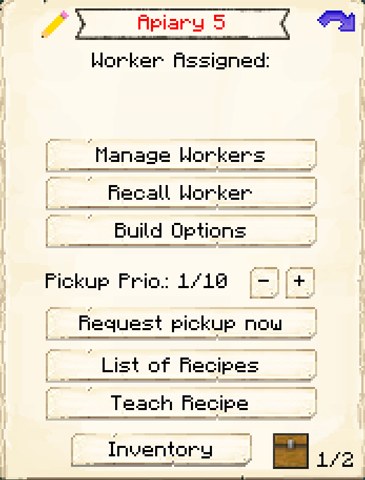
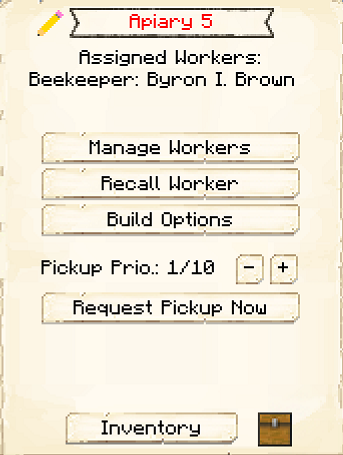
Hut updates (#751)
* Updated Builder's Hut GUI info

Updated the Builders's Hut to show the 6 new tabs, with image updates

Also made changes to gui.yml to
remove mention of worker level.
Renamed Delivery Priority to Pickup Priority.
Removed List of Recipes and Teach Recipe as it is now in a tab.

* Minor proofreading

* Update builder.md

* Builder & shepherd hut updates

html fixes for builder's hut
Updated shepherd's hut with new images and content.

* Apiary Update

Update of Apiary page

diff --git a/source/buildings/builder.md b/source/buildings/builder.md
@@ -33,7 +33,7 @@ Once the Builder's Hut is built you can now build anything you want, like worker
 
 <div class="row">
   <div class="col">
-    
+
   When accessing the Builder’s Hut block by right-clicking on it, you will see a GUI with different options.  You start on the main tab <img src="../../assets/images/gui/guitab1.png" class="img-fluid mx-auto" alt="Main Tab">:
 
   <br>
@@ -50,73 +50,58 @@ Once the Builder's Hut is built you can now build anything you want, like worker
       </ul>
     </div>
   </div>
-  <br>
-      <p>The second tab of the GUI is Minimum Stock <img src="../../assets/images/gui/guitab2.png" class="img-fluid mx-auto" alt="Minimum Stock">: </p>
+    
   <br>
   <div class="row">
     <div class="col-sm-12 col-md">
       <img src="../../assets/images/gui/buildergui2.png" class="img-fluid mx-auto" alt="Builder GUI 2">
     </div>
     <div class="col-sm-12 col-md">
+    <br>
+    <p><img src="../../assets/images/gui/guitab2.png" class="img-fluid mx-auto" alt="Minimum Stock">  The second tab of the GUI is <strong>Minimum Stock</strong>. </p>
     <ul>
         <li><strong> Add: </strong> Use this button to tell the Builder's Hut to keep a minimum stock on hand. Set items will be displayed above the button.</li>
     </ul>
     </div>
   </div>
-  <br>
-   <div class="col-sm-12 col-md"><br>
-      <p>The third tab of the GUI is Settings <img src="../../assets/images/gui/guitab3.png" class="img-fluid mx-auto" alt="Settings">: </p>
-    </div>
+
   <br>
   <div class="row">
     <div class="col-sm-12 col-md">
       <img src="../../assets/images/gui/buildergui3.png" class="img-fluid mx-auto" alt="Builder GUI 3">
     </div>
-  <br>
-  <div class="col-sm-12 col-md">
-    <ul>
-      <li><strong>Builder Mode:</strong> Here you can set your Builder to Manual or Automatic mode (Automatic by default). In Automatic, the builder chooses which build order they'll complete next themselves (based on the order of the build requests in the <a href="../../source/buildings/townhall">Town Hall</a> GUI's <a href="#workorders">work orders</a> tab). In Manual, you choose their next build order yourself by clicking Select next to the build order's name.</li>
-      <li><strong>Fill Block:</strong> Here you can select what block the builder uses to fill in holes/gaps in the schematic.  The default is the dirt block.</li>
-    </ul>
-  </div>
+    <div class="col-sm-12 col-md">
+      <p><img src="../../assets/images/gui/guitab3.png" class="img-fluid mx-auto" alt="Settings"> The third tab of the GUI is <strong>Settings</strong>.</p>
+      <ul>
+        <li><strong>Builder Mode:</strong> Here you can set your Builder to Manual or Automatic mode (Automatic by default). In Automatic, the builder chooses which build order they'll complete next themselves (based on the order of the build requests in the <a href="../../source/buildings/townhall">Town Hall</a> GUI's <a href="#workorders">work orders</a> tab). In Manual, you choose their next build order yourself by clicking Select next to the build order's name.</li>
+        <li><strong>Fill Block:</strong> Here you can select what block the builder uses to fill in holes/gaps in the schematic.  The default is the dirt block.</li>
+      </ul>
+    </div>
   </div>
 
-  <br>
-   <div class="col-sm-12 col-md"><br>
-      <p>The fourth tab of the GUI is Crafting Recipes <img src="../../assets/images/gui/guitab4.png" class="img-fluid mx-auto" alt="Crafting Recipes">.  
-      <br>Here you can see all the recipes you have taught this hut and can remove them: </p>
-    </div>
   <br>
   <div class="row">
     <div class="col-sm-12 col-md">
       <img src="../../assets/images/gui/buildergui4.png" class="img-fluid mx-auto" alt="Builder GUI 4">
     </div>
-  <br>
-  <div class="col-sm-12 col-md">
-    <ul>
-      <li><strong>Teach Recipe:</strong> When clicking teach recipe, it opens a crafting grid which allows you to teach this hut recipes (not the worker).</li>
-    </ul>
+    <div class="col-sm-12 col-md">
+      <p><img src="../../assets/images/gui/guitab4.png" class="img-fluid mx-auto" alt="Crafting Recipes"> The fourth tab of the GUI is <strong>Crafting Recipes</strong>.  Here you can see all the recipes you have taught this hut and can remove them.</p>
+      <ul>
+        <li><strong>Teach Recipe:</strong> When clicking teach recipe, it opens a crafting grid which allows you to teach this hut recipes (not the worker).</li>
+      </ul>
+    </div>
   </div>
-  <br>
-   <div class="col-sm-12 col-md"><br>
-      <p>The fifth tab of the GUI is Work Orders <img src="../../assets/images/gui/guitab5.png" class="img-fluid mx-auto" alt="Work Orders">.  
-      <br>This page shows you what buildings have been assigned to this builder, along with the distance away from the builder's hut.  You can cancel the work order here.
-      </p>
-      </div>
+
   <br>
   <div class="row">
     <div class="col-sm-12 col-md">
       <img src="../../assets/images/gui/buildergui5.png" class="img-fluid mx-auto" alt="Builder GUI 5">
     </div>
-  <br>
-  <div class="col-sm-12 col-md">
-  </div>
-  </div>
-  <br>
-   <div class="col-sm-12 col-md"><br>
-      <p>The sixth tab of the GUI is Required Resources <img src="../../assets/images/gui/guitab6.png" class="img-fluid mx-auto" alt="Required Resources">. 
-      <br>These are the resources that the Builder will need for the build order they are currently working on. </p>
+    <div class="col-sm-12 col-md">
+      <p><img src="../../assets/images/gui/guitab5.png" class="img-fluid mx-auto" alt="Work Orders"> The fifth tab of the GUI is <strong>Work Orders</strong>.  This page shows you what buildings have been assigned to this builder, along with the distance away from the builder's hut.  You can cancel the work order here. </p>
     </div>
+  </div>
+
   <br>
   <div class="row">
     <div class="col-sm-12 col-md">
@@ -124,6 +109,7 @@ Once the Builder's Hut is built you can now build anything you want, like worker
     </div>
   <br>
   <div class="col-sm-12 col-md">
+    <p><img src="../../assets/images/gui/guitab6.png" class="img-fluid mx-auto" alt="Required Resources"> The sixth tab of the GUI is <strong>Required Resources</strong>. These are the resources that the Builder will need for the build order they are currently working on. </p>
     <ul>
       <li><strong>Current project</strong> The top line tells you which building is being worked on and its level.</li>
       <li><strong>Step</strong> What step of the project the builder is on.</li>
@@ -131,7 +117,7 @@ Once the Builder's Hut is built you can now build anything you want, like worker
       <li><strong>Item</strong> Each needed item is displayed, along with how many of that item is in inventory, and how many are needed.  These amounts will change as they place blocks and will show only what blocks the Builder still needs to place. The block in black are in their inventory.  The blocks in red are the ones neither you nor the Builder has in their inventory.  The blocks in green are ones you have in inventory but the builder needs.  Clicking the up arrow next to the item will automatically remove that item from your inventory and place it into the builder's.</li>
     </ul>
   </div>
-   
+
   <br>
   </div>
 </div>

diff --git a/source/buildings/apiary.md b/source/buildings/apiary.md
@@ -33,12 +33,13 @@ The level of the Apiary determines the max number of hives the Beekeeper can tak
 
 **Note:** If the Beekeeper is asking for hives but there are some nearby, make sure you've set the hives for them to take care of with the hive tool. This tool is accessed from the second page of the Apiary GUI (see below).
 
-<div class="row">
-  
-<div class="col">
 ## Apiary GUI
 
-When accessing the Apiary block by right-clicking on it, you will see a GUI with different options:
+<div class="row">
+ 
+<div class="col">
+
+When accessing the Apiary Hut block by right-clicking on it, you will see a GUI with different options:
 
 <br>
 <div class="row">
@@ -59,14 +60,13 @@ When accessing the Apiary block by right-clicking on it, you will see a GUI with
 <br>
 <div class="row">
   <div class="col-sm-12 col-md">
-    <img src="../../assets/images/gui/apiarygui2.png" class="img-fluid mx-auto" alt="Apiary GUI 2">
+    <img src="../../assets/images/gui/minstockgui.png" class="img-fluid mx-auto" alt="Apiary GUI 2">
   </div>
   <div class="col-sm-12 col-md">
     <br>
-    <p>This is page two of the GUI. It has two buttons:</p>
+    <p><img src="../../assets/images/gui/guitab2.png" class="img-fluid mx-auto" alt="Minimum Stock"> The second tab of the GUI is <strong>Minimum Stock</strong>.    It has one button:</p>
     <ul>
-        <li><b>Honeycombs or Honey:</b> Here you choose if the Beekeeper will collect honeycombs or honey bottles. They will collect whatever shows on the GUI.</li>
-      <li><b>Get hive tool:</b> Click this button to get the hive tool, which is how you select which hives the Beekeeper will take care of. To select a hive, right-click on it with the hive tool. Right-click on a hive again to remove it.</li>
+        <li><strong> Minimum Stock: </strong> Use this button to tell the Apiary to keep a minimum stock on hand. Set items will be displayed above the button.</li>
     </ul>
   </div>
 </div>
@@ -74,13 +74,39 @@ When accessing the Apiary block by right-clicking on it, you will see a GUI with
 <br>
 <div class="row">
   <div class="col-sm-12 col-md">
-    <img src="../../assets/images/gui/minstockgui.png" class="img-fluid mx-auto" alt="Apiary GUI 3">
+    <img src="../../assets/images/gui/apiarygui3.png" class="img-fluid mx-auto" alt="Apiary GUI 3">
   </div>
   <div class="col-sm-12 col-md">
     <br>
-    <p>This is page three of the GUI. It has one button:</p>
+    <p><img src="../../assets/images/gui/guitab3.png" class="img-fluid mx-auto" alt="Settings"> The third tab of the GUI is <strong>Settings</strong>.  It has two buttons:</p>
     <ul>
-        <li><strong> Minimum Stock: </strong> Use this button to tell the Apiary to keep a minimum stock on hand. Set items will be displayed above the button.</li>
+      <li><b>Breeding:</b> On by default. Here you can choose if the Beekeeper will breed bees.</li>
+      <li><b>Honeycombs or Honey:</b> Here you choose if the Beekeeper will collect honeycombs, honey bottles, or both. They will collect whatever shows on the GUI.</li>
+    </ul>
+  </div>
+</div>
+
+<br>
+<div class="row">
+  <div class="col-sm-12 col-md">
+    <img src="../../assets/images/gui/apiarygui4.png" class="img-fluid mx-auto" alt="Apiary GUI 4">
+  </div>
+  <div class="col-sm-12 col-md">
+    <br>
+    <p><img src="../../assets/images/gui/apiarygui4tab.png" class="img-fluid mx-auto" alt="Flowers"> The fourth tab of the GUI is <strong>Flowers</strong>.  Here you designate what flowers you want the Beekeeper to request and use during breeding.  By default, all flowers are turned off.</p>
+  </div>
+</div>
+
+<br>
+<div class="row">
+  <div class="col-sm-12 col-md">
+    <img src="../../assets/images/gui/apiarygui5.png" class="img-fluid mx-auto" alt="Apiary GUI 5">
+  </div>
+  <div class="col-sm-12 col-md">
+    <br>
+    <p><img src="../../assets/images/gui/apiarygui5tab.png" class="img-fluid mx-auto" alt="Tool"> The fifth tab of the GUI is the <strong>Hive Tool</strong>.</p>
+    <ul>
+      <li><b>Obtain Tool:</b> Click this button to get the hive tool, which is how you select which hives the Beekeeper will take care of. To select a hive, right-click on it with the hive tool. Right-click on a hive again to remove it.</li>
     </ul>
   </div>
 </div>

diff --git a/source/buildings/shepherd.md b/source/buildings/shepherd.md
@@ -34,7 +34,7 @@ The Shepherd's Hut is where the Shepherd will breed and butcher sheep for food a
 
 ## Shepherd's Hut GUI
 
-When accessing the Shepherd's Hut block by right-clicking on it, you will see a GUI with different options:
+When accessing the Shepherd's Hut block by right-clicking on it, you will see a GUI with different options.  You start on the main tab <img src="../../assets/images/gui/guitab1.png" class="img-fluid mx-auto" alt="Main Tab">
 
 <br>
 <div class="row">
@@ -50,7 +50,6 @@ When accessing the Shepherd's Hut block by right-clicking on it, you will see a 
     </ul>
   </div>
 </div>
-<br>
 
 <br>
 <div class="row">
@@ -59,10 +58,9 @@ When accessing the Shepherd's Hut block by right-clicking on it, you will see a 
   </div>
   <div class="col-sm-12 col-md">
     <br>
-    <p>This is page two of the GUI. It has two buttons:</p>
+    <p><img src="../../assets/images/gui/guitab2.png" class="img-fluid mx-auto" alt="Minimum Stock"> The second tab of the GUI is <strong>Minimum Stock</strong>.    It has one button:</p>
     <ul>
-        <li><b>Breeding:</b> On by default. Here you can choose if the Shepherd will breed (and consequently kill) sheep or just shear them.</li>
-      <li><b>Random Sheep Dying:</b> Off by default. Here you choose if the Shepherd will dye sheep random colors to get differently colored wool. (They do not require dye to do this.)</li>
+        <li><strong> Minimum Stock: </strong> Use this button to tell the Shepherd's Hut to keep a minimum stock on hand. Set items will be displayed above the button.</li>
     </ul>
   </div>
 </div>  
@@ -70,13 +68,18 @@ When accessing the Shepherd's Hut block by right-clicking on it, you will see a 
 <br>
 <div class="row">
   <div class="col-sm-12 col-md">
-    <img src="../../assets/images/gui/minstockgui.png" class="img-fluid mx-auto" alt="Shepherd's Hut GUI 3">
+    <img src="../../assets/images/gui/shepherdgui3.png" class="img-fluid mx-auto" alt="Shepherd's Hut GUI 3">
   </div>
   <div class="col-sm-12 col-md">
     <br>
-    <p>This is page three of the GUI. It has one button:</p>
+    <p><img src="../../assets/images/gui/guitab3.png" class="img-fluid mx-auto" alt="Settings"> This is page three of the GUI. It has two buttons:</p>
     <ul>
-        <li><strong> Minimum Stock: </strong> Use this button to tell the Shepherd's Hut to keep a minimum stock on hand. Set items will be displayed above the button.</li>
+      <li><b>Breeding:</b> On by default. Here you can choose if the Shepherd will breed (and consequently kill) sheep.</li>
+      <li><b>Feeding:</b> On by default. Here you can choose if the Shepherd will feed baby animals, to let them grow up faster.</li>
+      <li><b>Dying:</b> On by default. Here you choose if the Shepherd will dye sheep random colors to get differently colored wool. (They do not require dye to do this.)</li>
+      <li><b>Shearing:</b> On by default. Here you can choose if the Shepherd will shear the sheep or not.</li>
     </ul>
   </div>
 </div>  
+
+
